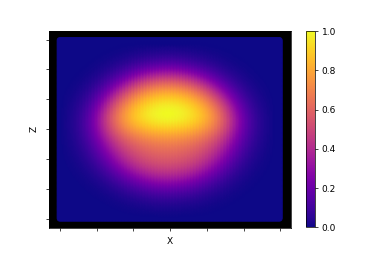
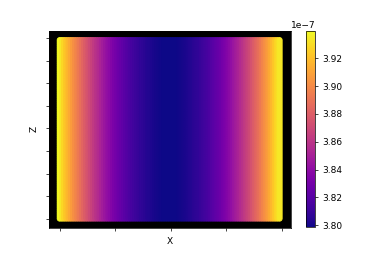
PRetty good results so far, needs more work

diff --git a/janus-gradient/src/main(time-dependant).cpp b/janus-gradient/src/main(time-dependant).cpp
@@ -12,17 +12,16 @@ using namespace std;
 
 
 //Constants:
-
-	const long double particleRadius        = pow(10,-3);
+	const long double scale 	    = pow(10,-3);
+	const long double particleRadius    = 1e-2;
 	const long double particleRadiusSquared = pow(particleRadius,2);
-	const long double pi	       		= 3.14159265358979323846;
-	const long double bounds 		= particleRadius*20;
+	const long double pi	            = 3.14159265358979323846;
+	const long double bounds 	    = 0.015;
 	
-	const long double alphaSilica		 = 1*pow(10,-7);  //actual magnitude is 10e-7
-	const long double alphaFluid		 = 1.43*pow(10,-7);
-	
+	const long double alphaSilica	 = 1*pow(10,-7);  //actual magnitude is 10e-7
+	const long double alphaFluid	 = 1.43*pow(10,-7);
 struct Point {
-	long double x, y, z, r;
+	long double x, y, z,r;
 	long double  gradientValue = 0.0;
 };
 Point newPoint;
@@ -41,60 +40,19 @@ float fastSqrt(const float n)
    return (int(3) - n * u.f * u.f) * n * u.f * 0.5f;
 }
 
-long double getq(long double x,long double y, long double z) {
-	//The potential will vary depending on the 2 domains:
-	//water   r > particleRadius
-	//gold    r = particleRadius && z > 0
-	//silica  r = particleRadius
-	
-	
-	long double output = exp(-2*particleRadius/pow((r-particleRadius),2)  );
-
-	return output;
-	
-}	
-
-
-long double integral(int ix, int iz, int iy, vector<long double> x,vector<long double> y, vector<long double> z,const long double dxdydz){
-	long double contributionSum = 0.0;
-	long double r 	  =  x[ix]*x[ix]  + z[iz]*z[iz];
-
-	
-	//distance = r-r'
-	//Volume element = dxdydz
-		
-    	for (int i = 0; i<x.size(); i++){
-    			for(int j = 0; j<y.size(); j++){
-    				for(int k = 0; k<z.size(); k++){
-    				
-				
-					long double rPrim = sqrt(x[i]*x[i] + z[k]*z[k]);	
-					long double rDiff = r - rPrim;
-
-					long double q = getq(rPrim);
-					
-					contributionSum -=    ( q*rDiff/(abs(rDiff*rDiff*rDiff)) )*dxdydz;
-							
-    			}
-    		}
-    	}
-    	return contributionSum/(4*pi);
-	
-	
-}
-
-
-
 
 
 int main(int argc, char** argv) {
 	auto startTimer = std::chrono::high_resolution_clock::now();
 	
 	const long double resolution     = stof(argv[1]);
-	const long double stepSize       = 2*bounds/(resolution);
+	const long double stepSize       = 1/(resolution*1.1);
 	const long double coating        = stof(argv[2])*pi;
-	const long double dxdydz	 = pow(stepSize,3);
+	const int         iterationLimit = stoi(argv[3]);
+	
 
+	const long double skinThickness  = stepSize/(16);
+	const long double delta 	 = 1/(stepSize*stepSize) * 0.01;
 	//Fill list with location of gold coated points and write to csv.
 
 	
@@ -102,38 +60,88 @@ int main(int argc, char** argv) {
 	vector<Point> gradientList;
 	
 	
-		//Initialize space in spherical coordinates:
-	vector<long double> z;
-	for (long double coordinate = -bounds; coordinate <= bounds; coordinate += stepSize) {
-        	z.push_back(coordinate);
-   
-    	}
-	vector<long double> y = {0.0};
-	vector<long double> x = z;
 	
-
-
-
 	
 	//Initialize space:
-	vector<vector<vector<long double>>> field(x.size(), vector<vector<long double>>(y.size(), vector<long double>(z.size())));
+	
+	vector<long double> y;
+	for (long double coordinate = -bounds; coordinate <= bounds; coordinate += stepSize) {
+        	y.push_back(coordinate);
+    	}
+	vector<long double> z = y;
+	vector<long double> x = y;
+	int xSize = x.size();
+	int ySize = y.size();
+	int zSize = z.size();
+	
+	
+	vector<vector<vector<long double>>> field(xSize, vector<vector<long double>>(ySize, vector<long double>(ySize)));
+ 	long double gradientValue = 0.0;
+ 	//for (int i = 0; i < x.size(); i++){
+
+ 	for (int i = 0; i<xSize; i++){
+		for (int j = 0; j < ySize; j++){
+			for (int k = 0; k < zSize; k++){
+				long double ix = x[i];
+				long double jy = y[j];
+				long double kz = z[k];
+				const long double distanceSquared = ix*ix+jy*jy+kz*kz; //Distance from origo	
+				
+				if (distanceSquared <= particleRadiusSquared && kz>0){
+					gradientValue = 0.5;
+
+				}else if (distanceSquared <= particleRadiusSquared) {
+					gradientValue = 0.3;
+					
+				}else {
+					gradientValue = 0.0;
+				}	
+				field[i][j][k] = gradientValue;		
+			}
+		}
+ 	}
  	cout<<"Finished initialization"<<endl;
  	
-		//Volume element = r*r*dr*dphi*dtheta 
 
+	for(int t = 0; t<iterationLimit; t++){	
+		vector<vector<vector<long double>>> tempField(xSize, vector<vector<long double>>(ySize, vector<long double>(ySize)));
+    		for (int i = 1; i<(xSize-1); i++){
+    			for(int j = 1; j<(ySize-1); j++){
+    				for(int k = 1; k<(zSize-1); k++){
 
-		
-    		for (int i = 0; i<x.size(); i++){
-    			for(int j = 0; j<y.size(); j++){
-    				for(int k = 0; k<z.size(); k++){
-					//For a given point in 3D space, compute the integral given by Agnese
-					field[i][j][k] = integral(i,j,k,x,y,z,dxdydz);
+    					const long double jy = y[j];
+					const long double ix = x[i];
+					const long double kz = z[k];
+					const long double distanceSquared = ix*ix+jy*jy+kz*kz;
+				
+				// 
+				//Try with second derivative: 	(Works)
+					//if(i-1 == 0 || i+1 == xSize-1 || j-1 == 0 || k-1 == 0 || j+1 == ySize-1 ||k+1 == zSize-1){	
+					//	tempField[i][j][k] = 0.0; //This affects the cooling
+
+					//}else{
+						tempField[i][j][k] *= (i != 0 && i != xSize-1 && j != 0 && k != 0 && j != ySize-1 && k != zSize-1);
+						long double gradX = (field[i+1][j][k] - 2*field[i][j][k] + field[i-1][j][k]);
+						long double gradY = (field[i][j+1][k] - 2*field[i][j][k] + field[i][j-1][k]);
+						long double gradZ = (field[i][j][k+1] - 2*field[i][j][k] + field[i][j][k-1]);
+						
+						
+						
+						if (distanceSquared <= particleRadiusSquared) {
+							//Use silica heat coefficient when inside the sphere
+							tempField[i][j][k]  =  field[i][j][k] + alphaSilica*(gradY+gradZ+gradX)*delta;
+						}else{
+							//use water lutidine heat constants.
+							tempField[i][j][k]  =  field[i][j][k] + alphaFluid*(gradY+gradZ+gradX)*delta;
+						}
+					
+    					//}
     				}
     			}
     		}
-    	
+    		field = move(tempField);
 
- 
+    	}
     		
     		
 
@@ -225,8 +233,27 @@ int main(int argc, char** argv) {
 	return 0;
 }
 
+long double sumContributions(std::vector<Point> goldCoating, const long double ix, const long double iy, const long double iz) {
 
+	long double contributionSum = 0.0;
+	for (auto point : goldCoating){
+		const long double dx = (point.x-ix);
+		const long double dy = (point.y-iy);
+		const long double dz = (point.z-iz);
+		const long double goldDistance = fastSqrt(dx*dx + dy*dy  +dz*dz); 
+		contributionSum += goldDistance;	
+	}
+	return (contributionSum);
+}
 
+void appendValues(Point &newPoint,std::vector<Point>& gradient,const long double ix, const long double iy, const long double iz, const long double gradientValue) {
+	
+	newPoint.x = ix;
+	newPoint.y = iy;
+	newPoint.z = iz;
+	newPoint.gradientValue = gradientValue;
+	gradient.push_back(newPoint);
+}
 
 void writeToCSV(vector<long double> x,vector<long double> y,vector<long double> z,vector<vector<vector<long double>>> field) {
 

diff --git a/janus-gradient/src/main.py b/janus-gradient/src/main.py
@@ -9,12 +9,12 @@ import sys
 #resolution = sys.argv[1] #4000 = 151.648 seconds
 #coating    = sys.argv[2]
 
-resolution = "4500"
+resolution = "100"
 coating =    "0.5"
-iterations =  "1000"
+
 
 subprocess.run(["g++","main.cpp","-o","sim","-O4"])
-subprocess.run(["./sim",resolution,coating,iterations])
+subprocess.run(["./sim",resolution,coating])
 
 #%%
 #df = np.genfromtxt('gradient.csv',delimiter=',',skip_header=1)
@@ -22,7 +22,7 @@ df = pd.read_csv('gradient.csv')
 df.sort_values(by=['y'])
 
 
-scale = 2e-2
+scale = 5e-4
 #Extract the data from the DataFrame
 
 x = df['x']
@@ -49,7 +49,7 @@ ax = fig.add_subplot(111)
 # Scatter plot with colors based on the field values (F)
 # cmap='viridis' is used to map colors to a colormap (you can change it as needed)
 
-sc = ax.scatter(Fsum["x"], Fsum["z"],c=F, cmap='plasma', marker='.',s=130)
+sc = ax.scatter(df["x"], df["z"],c=df["gradientValue"], cmap='plasma', marker='.',s=130)
 #sc = ax.scatter(x,y,z,c=df["gradientValue"], cmap='plasma', marker='.',s=100)
 
 cbar = plt.colorbar(sc)
@@ -67,7 +67,7 @@ ax.set_xticklabels([])
 #ax.set_zlim(-scale,scale)
 # Show the plot
 plt. savefig("janus.png")
-plt.title("Temperature at time = " + iterations )
+
 
 toc = time.time()
 print("Plotting finished after " + str(round(toc-tic)) + " s")
